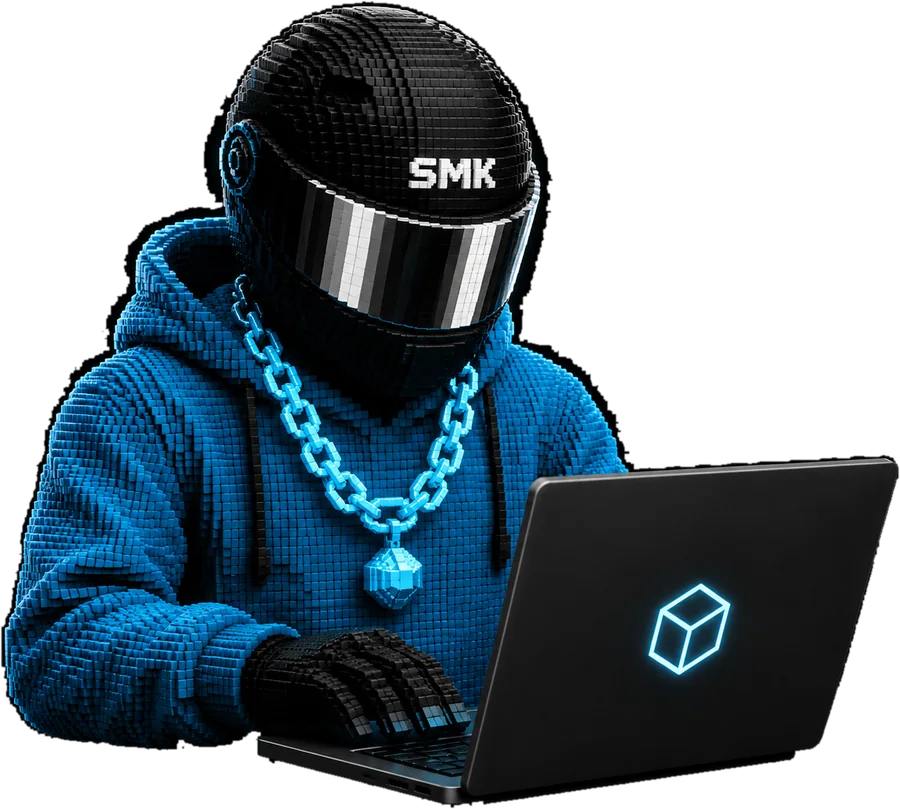
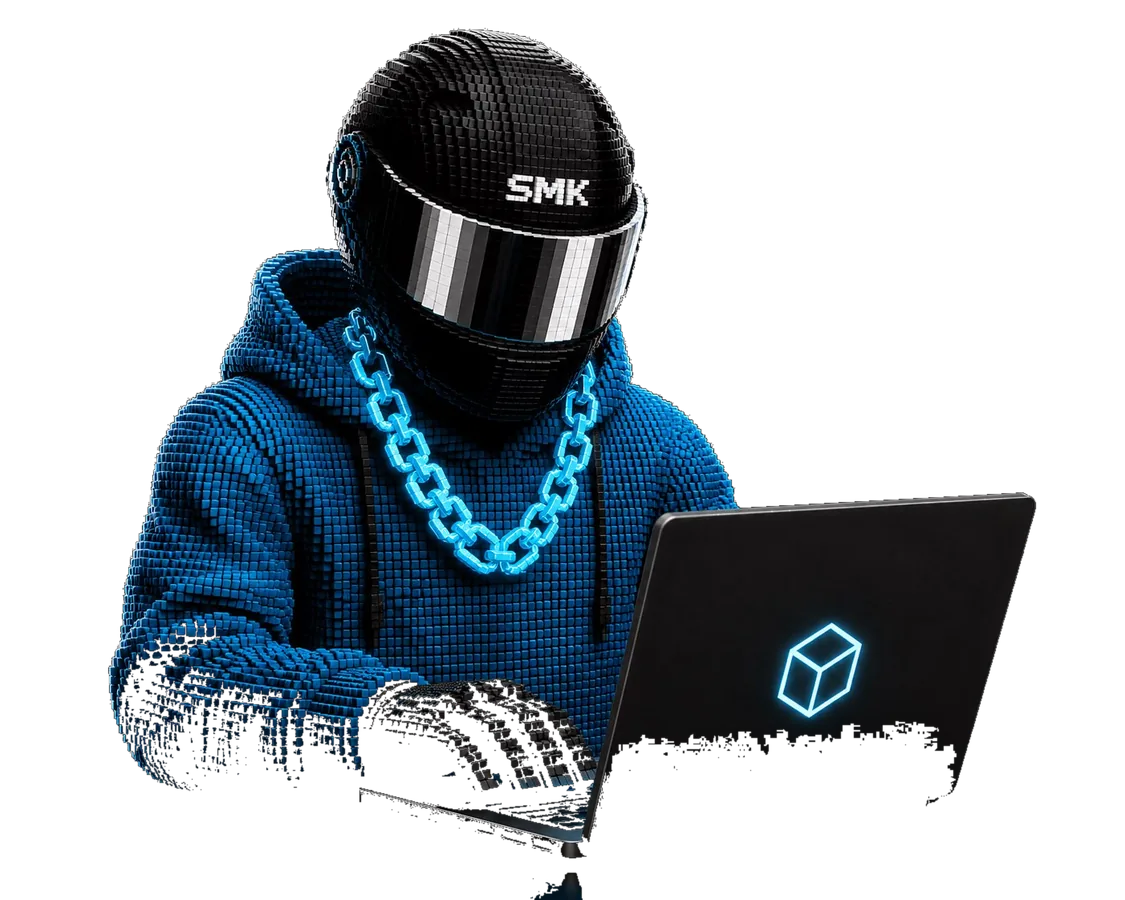
Replace the laptop pose, and reframe stage 04 around it
New render, keyed from the flattened JPEG the same way as the other five —
border flood fill, so the helmet, visor and gloves keep their own black. Helmet
core comes out 99% opaque, visor 100%, corners clear.

It is wider than what it replaces: 1.25 against 1.11. Width here is height
times aspect, so at the height stage 04 was using it measured over a thousand
pixels across a column half that wide, and the push off the right edge could
not absorb the difference. The wide-pose height drops to 62/70vh.

diff --git a/client/src/components/CreativeProcess.tsx b/client/src/components/CreativeProcess.tsx
@@ -245,7 +245,7 @@ function Stage({
                  the copy. laptop is 1.11 wide against 0.77 for the rest —
                  at the tall poses' height it was ~300px into the text. */
               WIDE_POSES.has(stage.pose)
-                ? "h-[min(34vh,66vw)] sm:h-[44vh] md:h-[84vh] lg:h-[94vh]"
+                ? "h-[min(30vh,60vw)] sm:h-[38vh] md:h-[62vh] lg:h-[70vh]"
                 : "h-[min(38vh,74vw)] sm:h-[48vh] md:h-[92vh] lg:h-[102vh]"
             }`}
           />
